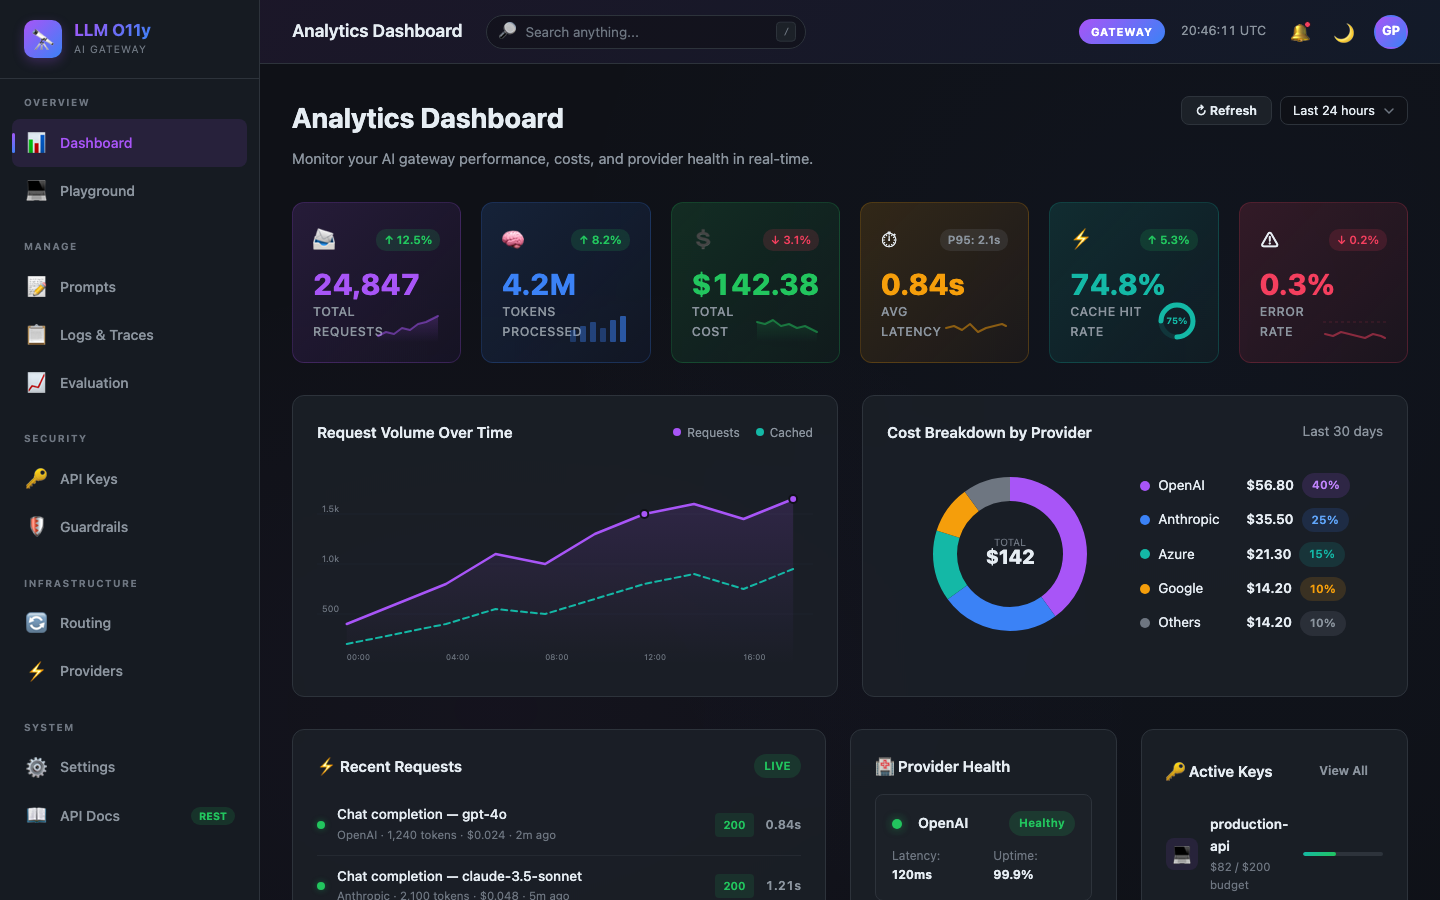
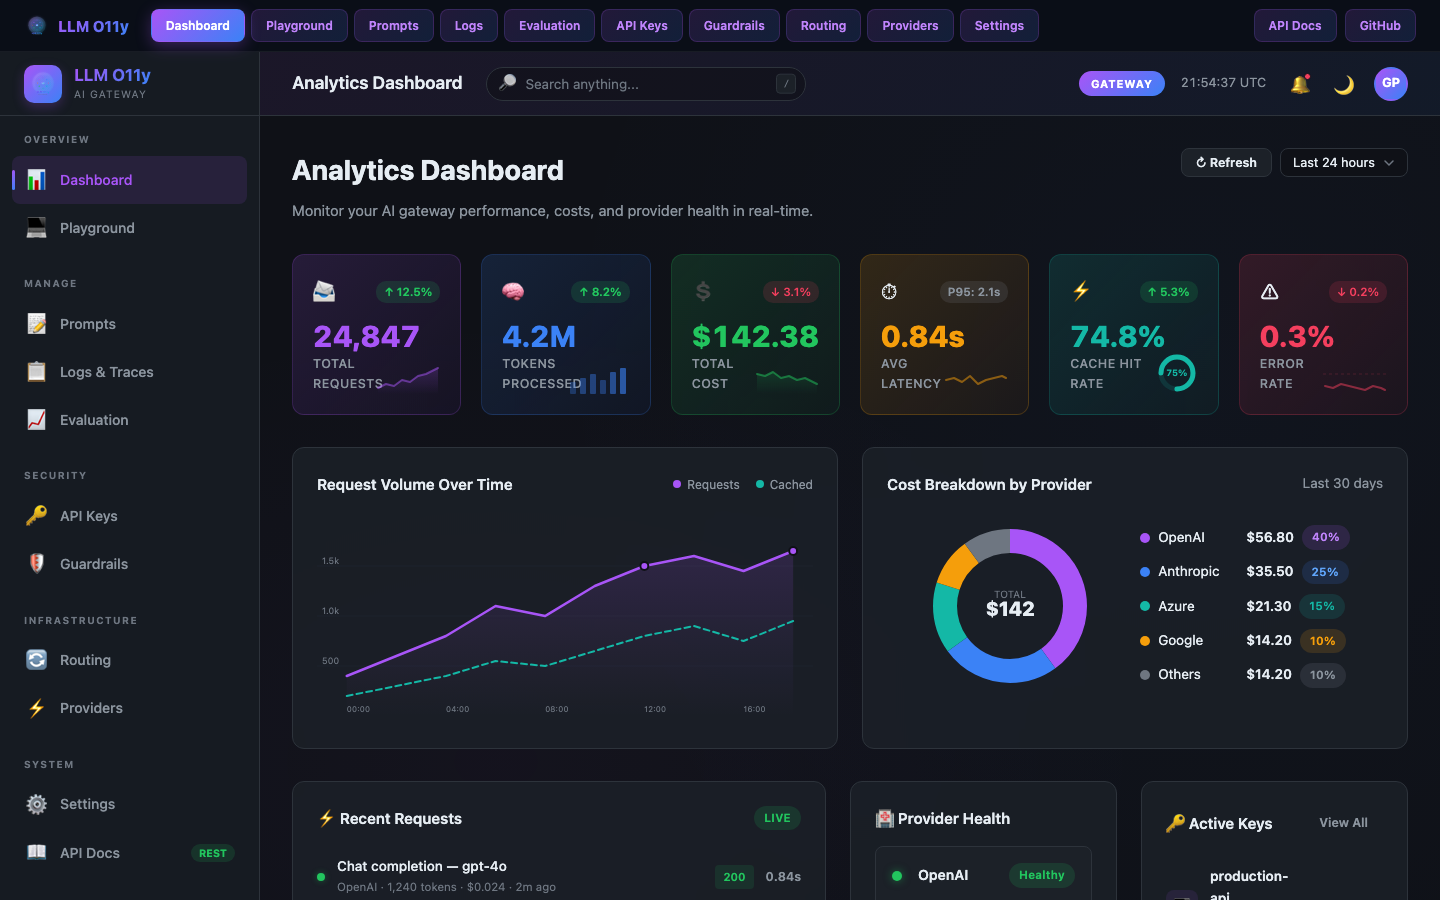
feat: add top navigation bar to all app pages with gradient link style
- Fixed top nav bar (52px) on all pages with logo linking to home
- All nav links use the same purple-to-blue gradient style as the
  "Open Playground" button from the landing page
- Active page link is fully filled with gradient background
- Hover effect: gradient fill with glow shadow and lift
- Links: Dashboard, Playground, Prompts, Logs, Evaluation, API Keys,
  Guardrails, Routing, Providers, Settings, API Docs, GitHub
- Sidebar and main content shifted down to accommodate top nav

diff --git a/src/templates/base.html b/src/templates/base.html
@@ -1417,9 +1417,54 @@
     </style>
 </head>
 <body>
-    <div class="layout">
+    <!-- ═══ TOP NAVIGATION BAR (same as landing page) ═══ -->
+    <nav style="
+        position: fixed; top: 0; left: 0; right: 0; z-index: 1000; height: 52px;
+        display: flex; align-items: center; padding: 0 24px; gap: 6px;
+        background: rgba(10,14,23,0.92); backdrop-filter: blur(16px);
+        border-bottom: 1px solid rgba(255,255,255,0.06);
+    ">
+        <a href="/" style="display:flex;align-items:center;gap:8px;text-decoration:none;margin-right:16px;">
+            <img src="/static/logo.svg" alt="Logo" style="width:26px;height:26px;">
+            <span style="font-size:15px;font-weight:800;background:linear-gradient(135deg,#a855f7,#3b82f6);-webkit-background-clip:text;-webkit-text-fill-color:transparent;">LLM O11y</span>
+        </a>
+        <a href="/dashboard" class="topnav-link {% if active_page == 'dashboard' %}topnav-active{% endif %}">Dashboard</a>
+        <a href="/playground" class="topnav-link {% if active_page == 'playground' %}topnav-active{% endif %}">Playground</a>
+        <a href="/prompts" class="topnav-link {% if active_page == 'prompts' %}topnav-active{% endif %}">Prompts</a>
+        <a href="/logs" class="topnav-link {% if active_page == 'logs' %}topnav-active{% endif %}">Logs</a>
+        <a href="/eval" class="topnav-link {% if active_page == 'eval' %}topnav-active{% endif %}">Evaluation</a>
+        <a href="/keys" class="topnav-link {% if active_page == 'keys' %}topnav-active{% endif %}">API Keys</a>
+        <a href="/guardrails" class="topnav-link {% if active_page == 'guardrails' %}topnav-active{% endif %}">Guardrails</a>
+        <a href="/routing" class="topnav-link {% if active_page == 'routing' %}topnav-active{% endif %}">Routing</a>
+        <a href="/providers" class="topnav-link {% if active_page == 'providers' %}topnav-active{% endif %}">Providers</a>
+        <a href="/settings" class="topnav-link {% if active_page == 'settings' %}topnav-active{% endif %}">Settings</a>
+        <div style="margin-left:auto;display:flex;align-items:center;gap:8px;">
+            <a href="/docs" target="_blank" class="topnav-link">API Docs</a>
+            <a href="https://github.com/gpadidala/llm-o11y-platform" target="_blank" class="topnav-link">GitHub</a>
+        </div>
+    </nav>
+    <style>
+        .topnav-link {
+            padding: 6px 14px; border-radius: 8px; font-size: 12px; font-weight: 600;
+            text-decoration: none; transition: all 0.25s;
+            background: linear-gradient(135deg, rgba(168,85,247,0.15), rgba(59,130,246,0.15));
+            border: 1px solid rgba(168,85,247,0.2); color: #c084fc;
+        }
+        .topnav-link:hover {
+            background: linear-gradient(135deg, #a855f7, #3b82f6); color: white;
+            border-color: transparent; box-shadow: 0 4px 16px rgba(168,85,247,0.3);
+            transform: translateY(-1px);
+        }
+        .topnav-active {
+            background: linear-gradient(135deg, #a855f7, #3b82f6) !important;
+            color: white !important; border-color: transparent !important;
+            box-shadow: 0 4px 16px rgba(168,85,247,0.3);
+        }
+    </style>
+
+    <div class="layout" style="padding-top: 52px;">
         <!-- Sidebar -->
-        <aside class="sidebar">
+        <aside class="sidebar" style="top: 52px; height: calc(100vh - 52px);">
             <a href="/" class="sidebar-brand" style="text-decoration:none;color:inherit;">
                 <div class="sidebar-logo"><img src="/static/logo.svg" alt="Logo" style="width:32px;height:32px;"></div>
                 <div class="sidebar-brand-text">
